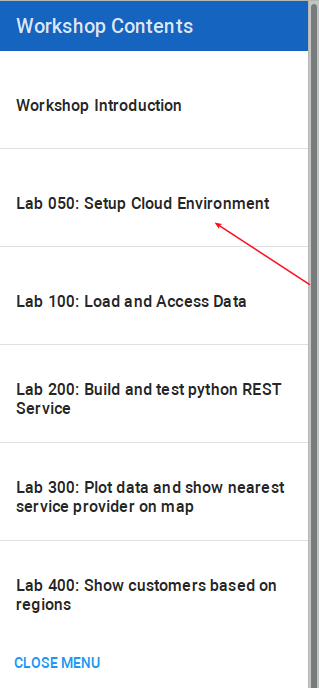
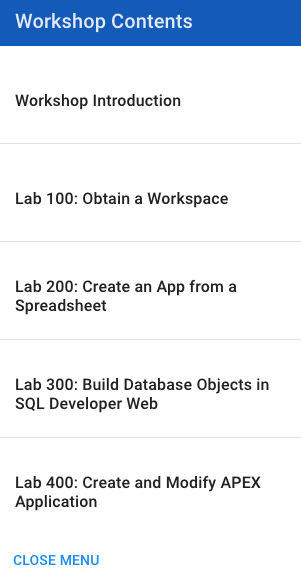
Rename changes

diff --git a/index.html b/index.html
@@ -123,9 +123,7 @@
     </div>
 
     <script src='https://oracle.github.io/learning-library/workshops/common-content/js/workshop.js'></script>
-    <!-- <script src='https://derekoneil.github.io/WorkshopTemplate/workshops/workshop-template/js/workshop.js'></script> -->
-    <!-- <script src='./js/workshop.js'></script> -->
-
+   
 
 </body>
 </html>

diff --git a/Intro.md b/Intro.md
@@ -1,23 +1,32 @@
-# Getting Started with Oracle APEX
+# Low Code Development with Oracle Autonomous Cloud
 
-Welcome to the Getting Start with Oracle APEX Workshop. This short lab is designed to give you an introduction to how quickly and easily you can build beautiful Web based apps with minimal coding using Oracle APEX.
+Welcome to the Low Code Development with Oracle Autonomous Cloud workshop. This workshop will walk you through the following tasks:
 
-## **Acquire an Oracle Cloud Trial**
+-  Create an Autonomous Transaction Processing Service
+-  Access APEX in the Oracle Cloud
+-  Create an APEX Workspace
+-  Create an Application from a File
+-  Use Quick SQL to Create Database Objects
+-  Use SQL Developer Web to Access Database Objects
+-  Use SQL Developer Web to Create Data Model
+-  Create and Modify an APEX Application
+
+### **Step 1**: Acquire an Oracle Cloud Trial
 
 - Bookmark this page for future reference.
 
-- Please click on the following link to create your <a href="https://myservices.us.oraclecloud.com/mycloud/signup?language=en&sourceType=:ex:tb:::RC_NAMK190418P00033:HOLPythonATP&SC=:ex:tb:::RC_NAMK190418P00033:HOLPythonATP&pcode=NAMK190418P00033" target="_trial_">Free Account</a>, and complete all the required steps to get your free Oracle Cloud Trial Account. When you complete the registration process you'll receive a $300 credit that will enable you to complete the lab for free.  Additionally, you'll have 1000s of hours left over to continue to explore the Oracle Cloud.
+- Please click on the following link to create your <a href="https://myservices.us.oraclecloud.com/mycloud/signup?language=en&sourceType=:ow:lp:cpo::RC_NAMK190523P00161:APEX_ATP_HOL&intcmp=:ow:lp:cpo::RC_NAMK190523P00161:APEX_ATP_HOL" target="_trial_">Free Account</a>, and complete all the required steps to get your free Oracle Cloud Trial Account. When you complete the registration process you'll receive a $300 credit that will enable you to complete the lab for free.  Additionally, you'll have 1000s of hours left over to continue to explore the Oracle Cloud.
 
   - Soon after requesting your trial you will receive the following email. Once you receive this email you can proceed to the next step.
 
   ![](images/getstartednow.png)
 
-## **Navigate to Lab 050**
+### **Step 2**: Navigate to Lab 050
 
   - _You can see a list of Lab Guides_ by clicking on the **Menu Icon** in the upper left corner of the browser window.
 
-  ![](images/001.png)
-
+	![](images/001.png)
+  
   ![](images/002.png)
 
-You're now ready to continue with [**Lab 050**](LabGuide050.md).
+You're now ready to continue with [**Lab 1**](Lab1.md).

diff --git a/README.md b/README.md
@@ -25,6 +25,8 @@ Welcome to the Low Code Development with Oracle Autonomous Cloud workshop. This 
 
   - _You can see a list of Lab Guides_ by clicking on the **Menu Icon** in the upper left corner of the browser window.
 
-	![](images/Intro-61643a34.png)
+	![](images/001.png)
   
-You're now ready to continue with [**Lab 050**](LabGuide050.md).
+  ![](images/002.png)
+
+You're now ready to continue with [**Lab 1**](Lab1.md).

diff --git a/Lab3.md b/Lab3.md
@@ -244,4 +244,4 @@ In this section, you will access SQL Developer Web and review the current object
 
 **This completes the Lab!**
 
-**You are ready to proceed to [Lab 400](Lab400.md)**
+**You are ready to proceed to [Lab 4](Lab4.md)**

diff --git a/Lab2.md b/Lab2.md
@@ -68,4 +68,4 @@ Now that the wizard has created the app, you should run the app to review what h
 
 **This completes the Lab!**
 
-**You are ready to proceed to [Lab 300](Lab300.md)**
+**You are ready to proceed to [Lab 3](Lab3.md)**

diff --git a/Lab1.md b/Lab1.md
@@ -110,4 +110,4 @@ You have already applied for and received your Oracle Cloud Trial Account.
 
 **This completes the Lab!**
 
-**You are ready to proceed to [Lab 200](Lab200.md)**
+**You are ready to proceed to [Lab 2](Lab2.md)**
